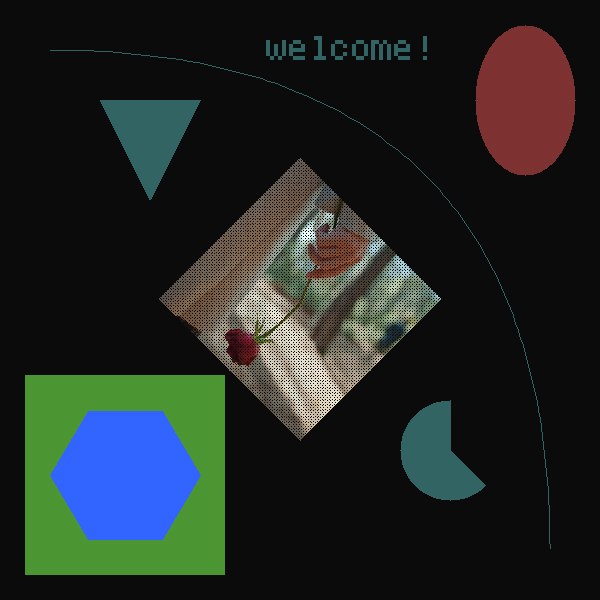
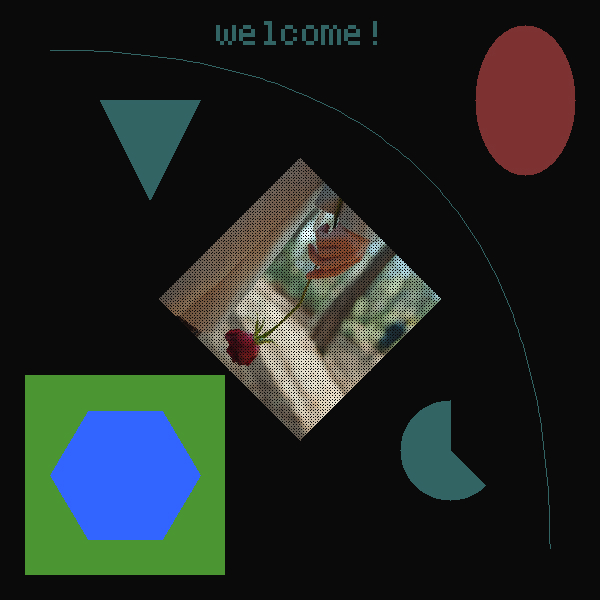
update plot

Changed region(s): [[0.36, 0.03, 0.72, 0.12]]

diff --git a/replot.c b/replot.c
@@ -11,12 +11,14 @@ void _replot_prepare(Replot *this, int w, int h) {
     int count = w * h * this->c;
     int size = count * sizeof(RByte);
     this->buffer = (RTexture)realloc(this->buffer, size);
-    memset(this->buffer, 11, size);  
+    // memset(this->buffer, 10, size);  
+    Replot_clear(this, RCOLOR(10, 10, 10, 255));
 }
 
 Replot *Replot_new(int w, int h) {
     Replot *rplt = (Replot *)malloc(sizeof(Replot));
     //
+    rplt->plot = NULL;
     rplt->buffer = NULL;
     rplt->stencil = NULL;
     //
@@ -39,8 +41,8 @@ Replot *Replot_wrap(RTexture *txtr, int w, int h) {
     Replot *rplt = Replot_new(w, h);
     int _chnl = 4;
     int _size = w * h * _chnl;
-    rplt->stencil = (RTexture)malloc(_size);
-    memcpy(rplt->buffer, txtr, _size);
+    rplt->buffer = (RTexture)malloc(_size);
+    memcpy(rplt->buffer, *txtr, _size);
     return rplt;
 }
 
@@ -210,9 +212,13 @@ void _replot_setPixel(Replot *this, int px, int py, u8 color[4]) {
 		return;
     }
 
-    #ifdef REPLOT_PLOT_FUNC
-    replot_pilot_func(px, py, color[0], color[1], color[2], color[3]);
-    #else
+    #ifndef REPLOT_NO_PLOT
+        if (this->plot) {
+            this->plot(px, py, color[0], color[1], color[2], color[3]);
+            return;
+        }
+    #endif
+
 	int index = ((u32)py) * (4 * bufferW) + (u32)px * 4;
 	if (color[3] != 255) {
 		float alpha = color[3] / 255;
@@ -222,7 +228,6 @@ void _replot_setPixel(Replot *this, int px, int py, u8 color[4]) {
 		color[3] =  (color[3] * alpha) + ((1 - alpha) * buffer[index + 3]);
 	}
     memcpy(buffer + index, color, 4 * sizeof(u8));
-    #endif
 }
 
 void _replot_fillPointWithXY(Replot *this, int px, int py) {

diff --git a/replot.h b/replot.h
@@ -27,9 +27,6 @@ typedef unsigned char RPixel[4];
 	typedef unsigned char *RTexture;
 #endif
 
-// define REPLOT_PLOT_FUNC then implement
-void replot_pilot_func(int x, int y, u8 r, u8 g, u8 b, u8 a);
-
 #ifndef RSOFT_IMPLEMENTATION
 #define RSOFT_IMPLEMENTATION
 #include "RSoft.h"
@@ -604,6 +601,8 @@ RPoint RC_POINT_MIDDLE(RPoint p1, RPoint p2) {
 
 /////////////////////////////////////////////////////
 
+typedef void (*REPLOT_PLOT_FUNC)(int, int, int, int, int, int);
+
 typedef struct Replot {
     int w;
     int h;
@@ -631,7 +630,11 @@ typedef struct Replot {
     int fcsW;
     int fcsH;
     //
+    REPLOT_PLOT_FUNC plot;
+    //
 } Replot;
+
+void Replot_clear(Replot *, RColor);
 
 #include "replot.c"
 

diff --git a/test.c b/test.c
@@ -30,7 +30,7 @@ int main(void) {
     //
     Replot_fillTriangle(rplt, RPOINT(100, 100), RPOINT(200, 100), RPOINT(150, 200));
     Replot_fillArc(rplt, RPOINT(450, 450), 50, 45, 270);
-    Replot_printText(rplt, RPOINT(350, 50), 4, "WELCOME!");
+    Replot_printText(rplt, RPOINT(300, 35), 4, "WELCOME!");
     // 
     char *_path = "test.jpg";
     Replot_write(rplt, _path);
